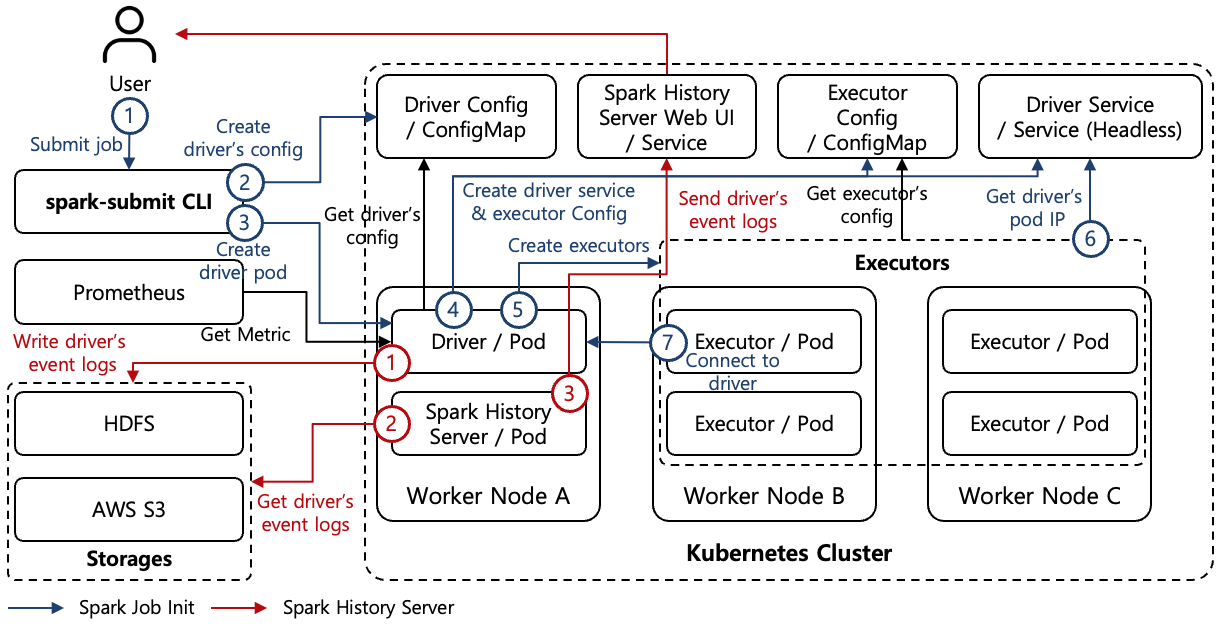
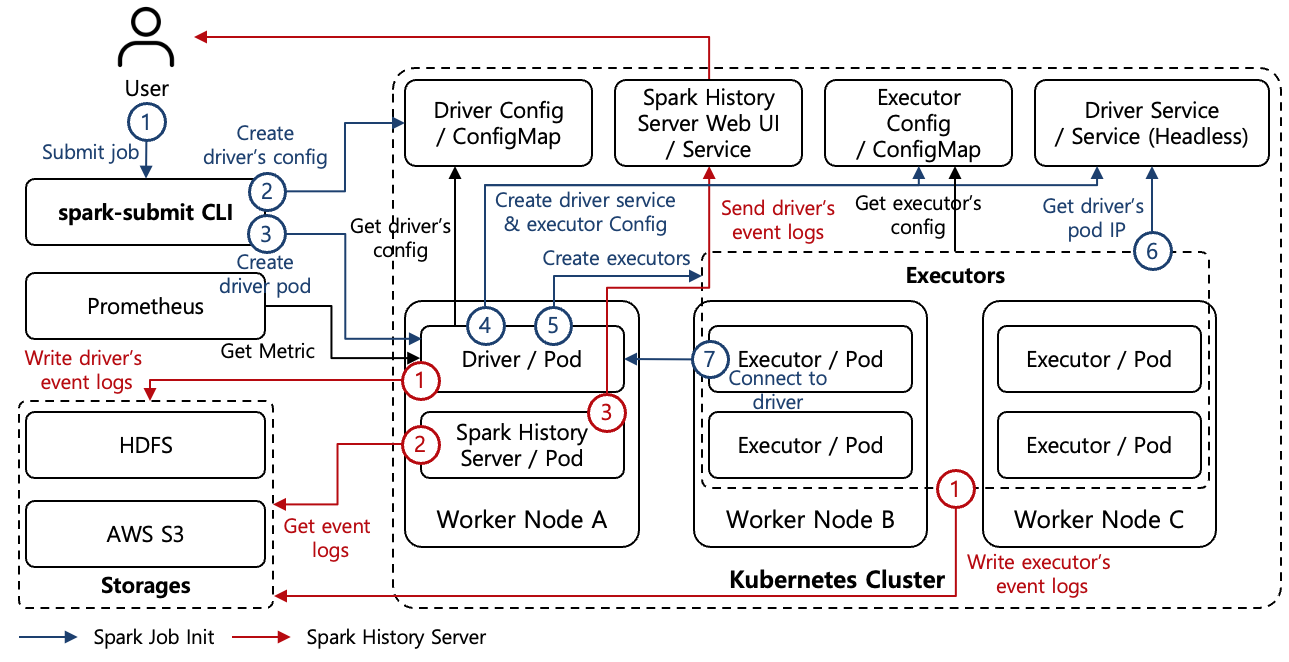
Update

Changed region(s): [[0.0, 0.0, 0.9951, 0.9984]]

diff --git a/_docs/theory_analysis/Spark_Kubernetes.md b/_docs/theory_analysis/Spark_Kubernetes.md
@@ -98,32 +98,6 @@ data:
 
 [파일 2]는 Executor ConfigMap 예제를 나타내고 있다. Executor Pod 내부의 Executor는 Driver의 Headless Service를 통해서 Driver Pod의 IP 정보를 알아낸 이후에 Driver Pod에 접속한다. 이후 Executor는 Driver로 부터 Task를 받아 처리한다.
 
-{% highlight shell %}
-spark-submit \
- --master k8s://87C2A505AF21618F97F402E454E530AF.yl4.ap-northeast-2.eks.amazonaws.com \
- --deploy-mode cluster \
- --driver-cores 1 \
- --driver-memory 512m \
- --num-executors 1 \
- --executor-cores 1 \
- --executor-memory 512m \
- --conf spark.kubernetes.namespace=spark \
- --conf spark.kubernetes.authenticate.driver.serviceAccountName=spark \
- --conf spark.kubernetes.container.image=public.ecr.aws/r1l5w1y9/spark-operator:3.2.1-hadoop-3.3.1-java-11-scala-2.12-python-3.8-latest \
- --conf spark.eventLog.enabled=true \
- --conf spark.eventLog.dir=s3a://ssup2-spark/history \
- --conf spark.kubernetes.driver.secretKeyRef.AWS_ACCESS_KEY_ID=aws-secrets:key \
- --conf spark.kubernetes.driver.secretKeyRef.AWS_SECRET_ACCESS_KEY=aws-secrets:secret \
- --conf spark.kubernetes.executor.secretKeyRef.AWS_ACCESS_KEY_ID=aws-secrets:key \
- --conf spark.kubernetes.executor.secretKeyRef.AWS_SECRET_ACCESS_KEY=aws-secrets:secret \
- local:///opt/spark/examples/src/main/python/pi.py
-{% endhighlight %}
-<figure>
-<figcaption class="caption">[Shell 2] spark-submit CLI with Event Log Example</figcaption>
-</figure>
-
-[그림 1]의 빨간색 화살표는 Spark Driver의 Event Log를 Spark History Server를 통해서 사용자에게 전달되는 과정을 나타내고 있다. spark-submit CLI로 Spark Job을 제출하는 경우 [Shell 2]와 같이 Spark Driver의 Event Log를 어디에 저장할지 지정이 가능하다. 일반적으로는 HDFS 또는 AWS S3에 Event Log를 저장한다. 저장된 Event Log는 Kubernetes Cluster에 설치된 Spark History Server에 의해서 시각화된다.
-
 ##### 1.1.2. Spark Operator
 
 ![[그림 2] Spark Operator Architecture]({{site.baseurl}}/images/theory_analysis/Spark_Kubernetes/spark-operator_Architecture.PNG)
@@ -191,19 +165,86 @@ spec:
 
 Spark Operator 이용 시 spark-submit CLI를 이용할 경우와 다른 또 한가지는 차이점은, Spark Operator는 Spark Driver에서 제공하는 Web UI를 User가 접근할 수 있도록 Service 및 Ingress를 생성해 준다는 점이다. [그림 2]의 초록색 화살표는 Spark Driver의 Service, Ingress를 통해서 사용자가 Spark Web UI에 접근하는 과정을 나타내고 있다.
 
-#### 1.2. Scheduler for Spark
+#### 1.2. Pod Template
+
+#### 1.3. Spark History Server
+
+Spark History Server는 Spark Driver 또는 Spark Executor가 남기는 Event Log를 시각화 해주는 역할을 수행한다. Kubernetes Cluster 환경에서 Spark History Server는 별도의 Pod로 동작한다. Spark Job이 제출과 함께 Config 설정을 통해서 Spark Driver가 Event Log Enable 및 Event Log를 남길 경로를 지정할 수 있다. Kubernetes Cluster 환경에서는 일반적으로 PVC 또는 AWS의 S3와 같은 외부의 Object Storage를 Event Log의 저장소로 이용한다.
+
+{% highlight shell %}
+spark-submit \
+ --master k8s://87C2A505AF21618F97F402E454E530AF.yl4.ap-northeast-2.eks.amazonaws.com \
+ --deploy-mode cluster \
+ --driver-cores 1 \
+ --driver-memory 512m \
+ --num-executors 1 \
+ --executor-cores 1 \
+ --executor-memory 512m \
+ --conf spark.kubernetes.namespace=spark \
+ --conf spark.kubernetes.authenticate.driver.serviceAccountName=spark \
+ --conf spark.kubernetes.container.image=public.ecr.aws/r1l5w1y9/spark-operator:3.2.1-hadoop-3.3.1-java-11-scala-2.12-python-3.8-latest \
+ --conf spark.eventLog.enabled=true \
+ --conf spark.eventLog.dir=s3a://ssup2-spark/history \
+ --conf spark.kubernetes.driver.secretKeyRef.AWS_ACCESS_KEY_ID=aws-secrets:key \
+ --conf spark.kubernetes.driver.secretKeyRef.AWS_SECRET_ACCESS_KEY=aws-secrets:secret \
+ --conf spark.kubernetes.executor.secretKeyRef.AWS_ACCESS_KEY_ID=aws-secrets:key \
+ --conf spark.kubernetes.executor.secretKeyRef.AWS_SECRET_ACCESS_KEY=aws-secrets:secret \
+ local:///opt/spark/examples/src/main/python/pi.py
+{% endhighlight %}
+<figure>
+<figcaption class="caption">[Shell 2] spark-submit CLI with Event Log Example</figcaption>
+</figure>
+
+[그림 1]의 빨간색 화살표는 Event Log를 Spark History Server를 통해서 사용자에게 전달되는 과정을 나타내고 있다. spark-submit CLI로 Spark Job을 제출하는 경우 [Shell 2]와 같이 eventLog.dir 설정을 통해서 Event Log를 어디에 저장할지 지정이 가능하다.
+
+{% highlight yaml linenos %}
+apiVersion: sparkoperator.k8s.io/v1beta2
+kind: SparkApplication
+metadata:
+  name: spark-pi
+  namespace: default
+spec:
+  type: Python
+  mode: cluster
+  image: "public.ecr.aws/r1l5w1y9/spark-operator:3.2.1-hadoop-3.3.1-java-11-scala-2.12-python-3.8-latest"
+  mainApplicationFile: local:///opt/spark/examples/src/main/python/pi.py
+  sparkVersion: "3.1.1"
+  sparkConf:
+    spark.eventLog.enabled: "true"
+    spark.eventLog.dir: "s3a://ssup2-spark/history"
+    spark.kubernetes.driver.secretKeyRef.AWS_ACCESS_KEY_ID: "aws-secrets:key"
+    spark.kubernetes.driver.secretKeyRef.AWS_SECRET_ACCESS_KEY : "aws-secrets:secret"
+    spark.kubernetes.executor.secretKeyRef.AWS_ACCESS_KEY_ID: "aws-secrets:key"
+    spark.kubernetes.executor.secretKeyRef.AWS_SECRET_ACCESS_KEY : "aws-secrets:secret"
+  driver:
+    cores: 1
+    memory: 512m
+  executor:
+    cores: 1
+    instances: 1
+    memory: 512m
+{% endhighlight %}
+<figure>
+<figcaption class="caption">[파일 5] SparkApplication Example</figcaption>
+</figure>
+
+[그림 2]의 빨간색 화살표도 Event Log를 Spark History Server를 통해서 사용자에게 전달되는 과정을 나타내고 있다. [파일 5]는 Event Log를 설정한 SparkApplication을 나타내고 있다.
+
+#### 1.4. Scheduler for Spark
 
 Kubernetes의 Default Scheduler는 단순히 각 Pod 단위로 Scheduling을 수행할 뿐 Pod 사이의 관계까지 고려하여 Scheduling을 수행하지 않는다. Kubernetes에서는 이러한 단점을 완화시키기 위해서 Third-party Scheduler 또는 사용자가 직접 Customer Scheduler를 개발하고 이용할 수 있도록 도와주는 Multiple Scheduler 기능을 제공한다.
 
 Kubernetes Cluster에 Spark Job이 제출되는 경우 Driver Pod 내부의 Driver가 Executor Pod들을 직접 생성하여 이용한다는 특징으로 인해서 다수의 Pod를 한번에 Scheduling하는 **Batch Scheduling** 기법이 유용한 경우가 많다. 또한 Spark Job의 Shuffle 연산에 의해서 Executor Pod들은 서로 많은 Data를 주고 받는다는 특징 때문에, Executor Pod들을 가능한 동일한 Node에 배치시키는게 가능한 **Application-aware Scheduling** 기법이 유용한 경우가 많다. 이러한 Scheduling 기법들은 일반적으로 **YuniKorn**, **Volcano**와 같은 Third-party Scheduler를 통해서 이용할 수 있다.
 
-##### 1.2.1. Batch Scheduling
+##### 1.4.1. Batch Scheduling
 
 Kubernetes Cluster에 Spark Job이 제출되는 경우 Driver Pod 내부의 Driver가 직접 Executor Pod들을 직접 생성한다는 특징을 갖는다. 이는 Kubernetes Cluster에서 Cluster Auto-scailing을 이용하고 있지 않는다면 Driver가 생성한 Executor Pod들이 Resource 부족으로 생성에 실패할 수 있다는걸 의미한다. Driver Pod가 생성된 이후에 Resource 부족으로 인해서 모든 Executor Pod들의 생성이 실패한다면, Spark Job 처리 실패뿐만 아니라 Driver Pod 구동에 이용한 Resource의 불필요한 낭비도 발생하게 된다.
 
 이러한 문제가 발생하는 이유는 Spark Job이 제출된 시점에는 Driver Pod만 생성이 되고, Driver Pod가 생성한 Executor Pod들을 Driver Pod 내부에서 이용한다는 사실을 Kubernetes의 Default Scheduler가 인지하지 못하기 때문이다. Driver Pod와 모든 Executor Pod가 이용 가능한 Resource를 확보할 경우에만 한번에 모든 Pod들을 Scheduling하는 Batch Scheduling 기법을 이용하면 이러한 문제를 해결할 수 있다.
 
 Batch Scheduling 기법을 이용하면 Kubernetes Cluster에서 Cluster Auto-scaler가 동작하고 있는 환경에서도 빠르게 Spark Job을 처리할 수 있도록 도와준다. Batch Scheduling을 이용하지 않는다면 Driver Pod가 생성되면서 Cluster Auto-scailing이 한번 발생하고 이후에 Executor Pod들이 생성되면서 Auto-scailing이 발생하여 총 2번의 Auto-scailing이 발생한다. 반면에 Batch Scheduling을 이용하면 한번의 Auto-scailing으로 Driver Pod와 Executor Pod들이 필요한 Resource를 확보할 수 있기 때문에 Auto-scailing의 발생 횟수를 줄일 수 있다.
+
+#### 1.5. Monitoring with Prometheus
 
 ### 2. 참조
 
